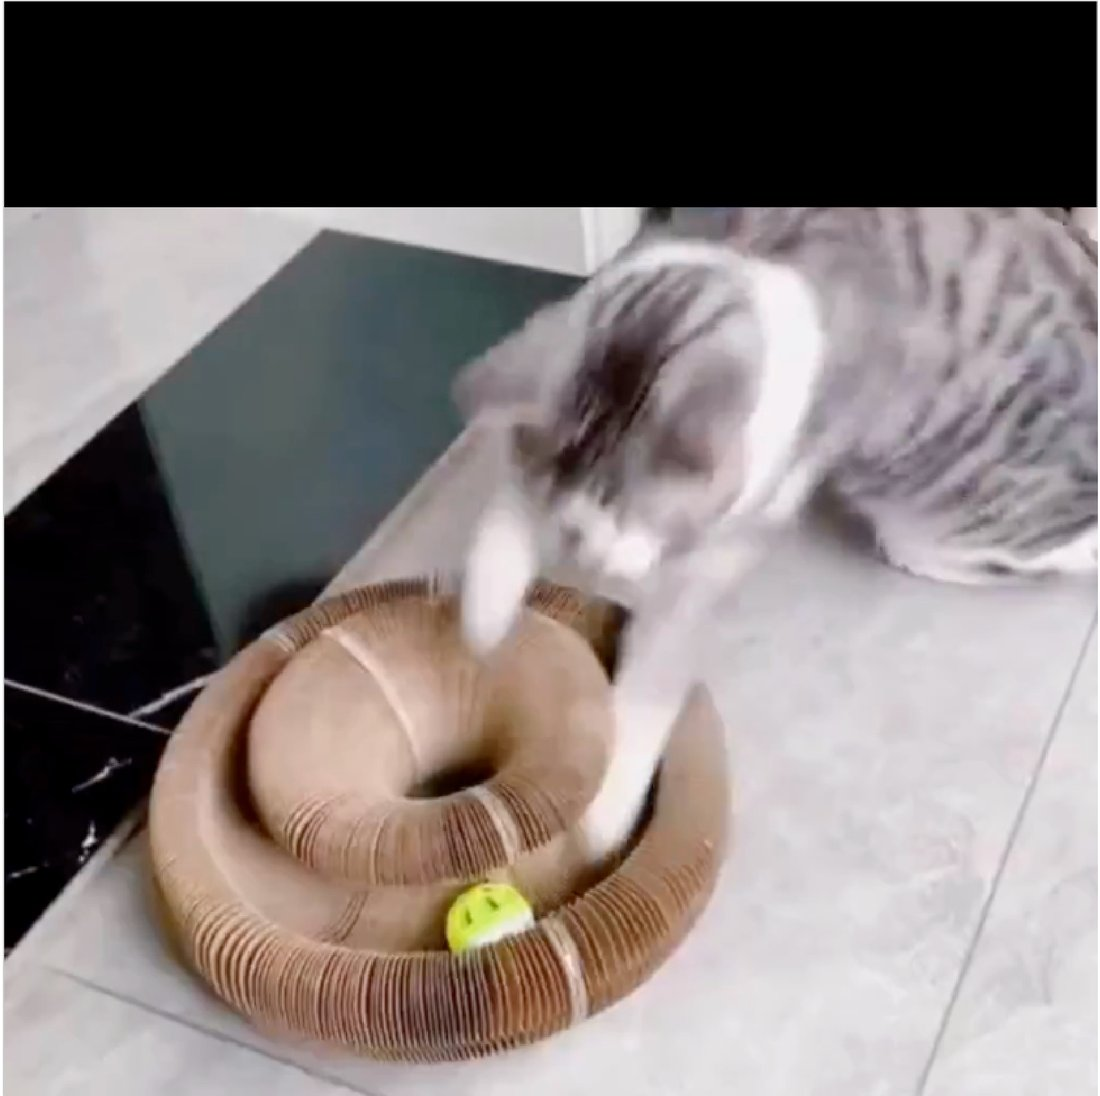
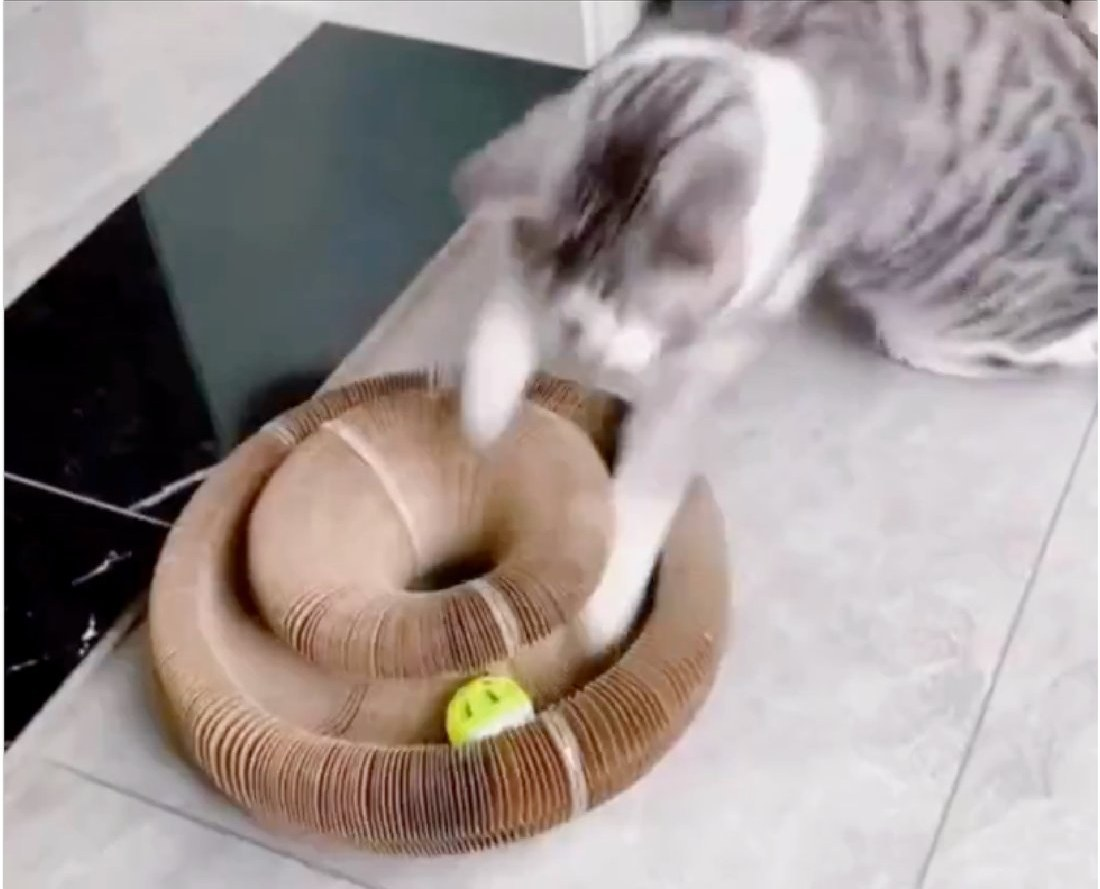
Listicle desktop QA: self-host font, remove sec4 video letterbox
- Self-host Plus Jakarta Sans (latin subset, variable woff2) and drop the
  Google Fonts dependency, so the page is fully standalone.
- Crop the black video-letterbox bar from the top of sec4.jpg.

Claude-Session: https://claude.ai/code/session_01GUevkoafYvVgPgW98kPk3e

diff --git a/listicle.html b/listicle.html
@@ -9,10 +9,22 @@
 <meta property="og:title" content="7 motivi per cui Scratchy sta aiutando i gatti italiani" />
 <meta property="og:description" content="La terapia ambientale che agisce sulla causa, non sul sintomo. Garanzia 60 giorni." />
 <meta property="og:type" content="article" />
-<link rel="preconnect" href="https://fonts.googleapis.com" />
-<link rel="preconnect" href="https://fonts.gstatic.com" crossorigin />
-<link href="https://fonts.googleapis.com/css2?family=Plus+Jakarta+Sans:ital,wght@0,400;0,500;0,600;0,700;0,800;1,400;1,500;1,600;1,700&display=swap" rel="stylesheet" />
 <style>
+  /* Self-hosted Plus Jakarta Sans (latin subset, variable) — no external dependency */
+  @font-face{
+    font-family:"Plus Jakarta Sans";
+    font-style:normal;
+    font-weight:200 800;
+    font-display:swap;
+    src:url("assets/fonts/listicle/PlusJakartaSans-latin.woff2") format("woff2");
+  }
+  @font-face{
+    font-family:"Plus Jakarta Sans";
+    font-style:italic;
+    font-weight:200 800;
+    font-display:swap;
+    src:url("assets/fonts/listicle/PlusJakartaSans-latin-italic.woff2") format("woff2");
+  }
   :root{
     --navy:#15384a;
     --ink:#1d1d1f;
